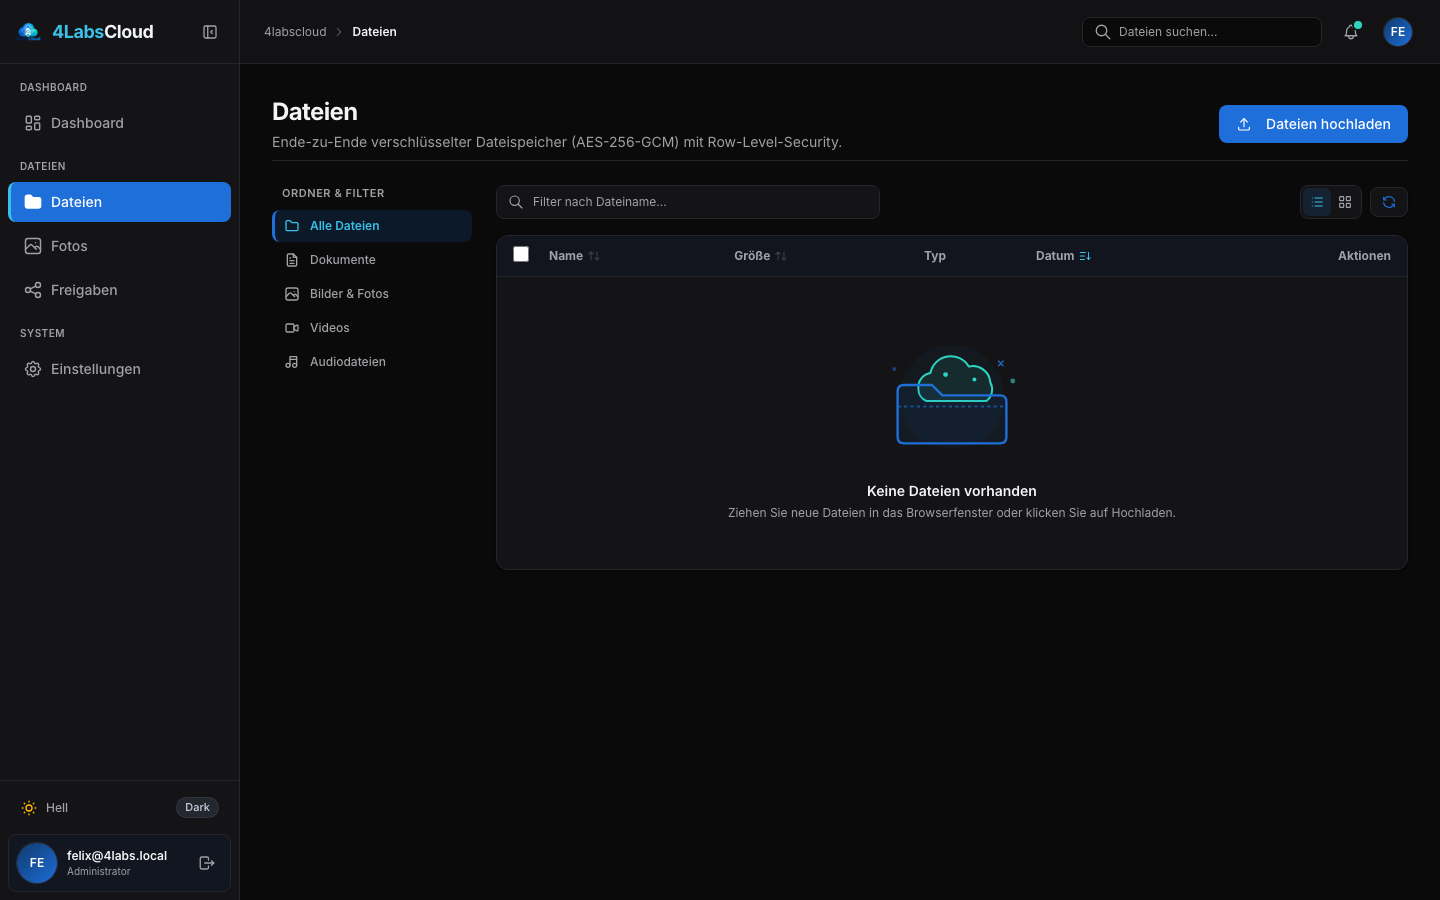
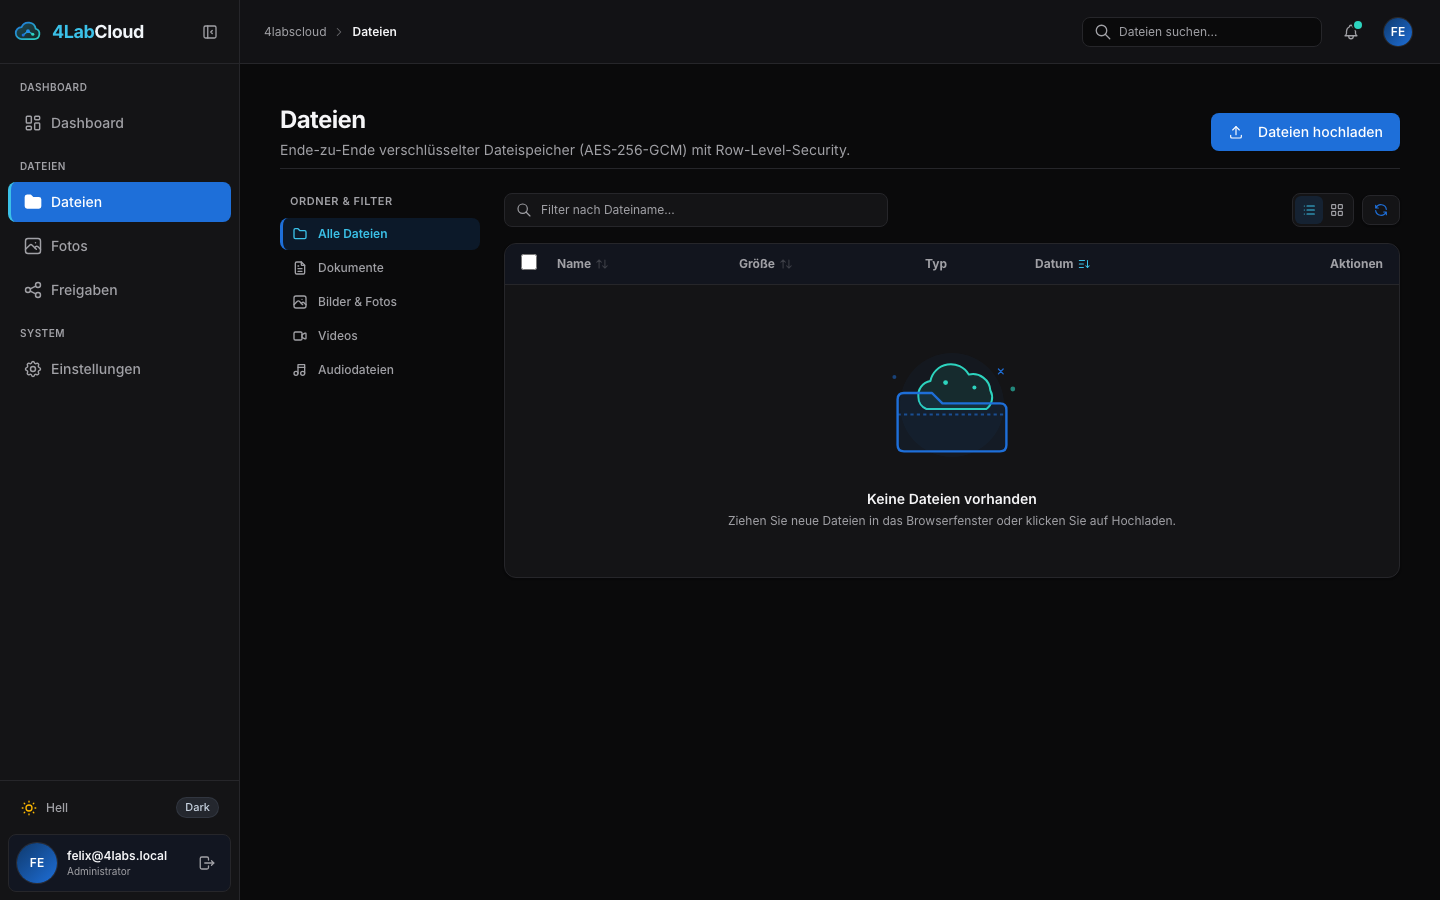
chore: v0.1.1 - naming, contrast, layout

diff --git a/frontend/src/routes/+page.svelte b/frontend/src/routes/+page.svelte
@@ -251,7 +251,7 @@
 		<!-- Hintergrundfoto mit dunklem Overlay fuer Barrierefreiheit -->
 		<img
 			src="/assets/hero-default.jpg"
-			alt="4labscloud Bergpanorama"
+			alt="4LabCloud Bergpanorama"
 			class="absolute inset-0 w-full h-full object-cover select-none pointer-events-none"
 		/>
 		<div class="absolute inset-0 bg-black/40"></div>
@@ -295,10 +295,10 @@
 		</div>
 	</div>
 
-	<!-- 2. Hauptbereich: 2-Spalten-Grid (2/3 zu 1/3) -->
-	<div class="grid grid-cols-1 lg:grid-cols-3 gap-6 items-start">
-		<!-- Linke Spalte (2/3): "Zuletzt verwendet" mit Tabs & 4er-Kachel-Grid -->
-		<div class="lg:col-span-2 space-y-4">
+	<!-- 2. Hauptbereich: Breiteres 2-Spalten-Layout (Flexibel + 320px Sidebar) -->
+	<div class="flex flex-col lg:flex-row gap-6 items-start">
+		<!-- Linke Spalte: "Zuletzt verwendet" mit Tabs & dynamischem Kachel-Grid -->
+		<div class="flex-1 min-w-0 space-y-4">
 			<div class="flex flex-col sm:flex-row sm:items-center justify-between gap-3 pb-1 border-b border-border-light dark:border-border-dark">
 				<!-- Section-Header mit 2x16px Akzentbalken (Primary) -->
 				<div class="flex items-center gap-2.5">
@@ -341,10 +341,10 @@
 				</div>
 			</div>
 
-			<!-- 4 Kacheln pro Reihe auf Desktop (1440px) -->
+			<!-- Dynamisches Kachel-Grid (4 Spalten, 5 bei xl) -->
 			{#if isLoading}
-				<div class="grid grid-cols-1 sm:grid-cols-2 xl:grid-cols-4 gap-4">
-					{#each Array(8) as _}
+				<div class="grid grid-cols-2 sm:grid-cols-3 lg:grid-cols-4 xl:grid-cols-5 gap-4">
+					{#each Array(10) as _}
 						<div class="aspect-4/5 rounded-xl bg-slate-200/70 dark:bg-slate-800/60 animate-skeleton"></div>
 					{/each}
 				</div>
@@ -364,8 +364,8 @@
 					</Button>
 				</div>
 			{:else}
-				<div class="grid grid-cols-1 sm:grid-cols-2 xl:grid-cols-4 gap-4">
-					{#each filteredFiles.slice(0, 8) as file (file.id)}
+				<div class="grid grid-cols-2 sm:grid-cols-3 lg:grid-cols-4 xl:grid-cols-5 gap-4">
+					{#each filteredFiles.slice(0, 10) as file (file.id)}
 						<FileCard
 							{file}
 							ondownload={handleDownload}
@@ -387,8 +387,8 @@
 			{/if}
 		</div>
 
-		<!-- Rechte Spalte (1/3): Sidebar-Karten mit Tiefe & Akzenten -->
-		<div class="space-y-6">
+		<!-- Rechte Spalte: Sidebar-Karten (w-80 / 320px) mit Tiefe & Akzenten -->
+		<div class="w-full lg:w-80 shrink-0 space-y-6">
 			<!-- Karte 1: Ihre Freigaben (mit Akzentbalken Amber & Kategorie-Icons) -->
 			<Card class="p-5">
 				<div class="flex items-center justify-between pb-3 border-b border-border-light dark:border-border-dark">

diff --git a/frontend/src/routes/+layout.svelte b/frontend/src/routes/+layout.svelte
@@ -196,7 +196,7 @@
 </script>
 
 <svelte:head>
-	<title>{currentTitle} - 4labscloud</title>
+	<title>{currentTitle} - 4LabCloud</title>
 </svelte:head>
 
 <!-- Globale Toasts -->
@@ -210,12 +210,12 @@
 	<div class="min-h-[100dvh] flex bg-bg-light dark:bg-bg-dark text-text-light dark:text-text-dark font-sans antialiased">
 		<!-- Sidebar (Seafile/Nextcloud-Struktur, 240px <-> 64px) -->
 		<aside
-			class="shrink-0 flex flex-col justify-between border-r border-border-light dark:border-border-dark bg-surface-light dark:bg-surface-dark transition-[width] duration-200 ease-in-out z-40 sticky top-0 h-screen select-none {isCollapsed ? 'w-16' : 'w-60'}"
+			class="shrink-0 flex flex-col justify-between border-r border-border-light dark:border-border-dark bg-sidebar-light dark:bg-surface-dark transition-[width] duration-200 ease-in-out z-40 sticky top-0 h-screen select-none {isCollapsed ? 'w-16' : 'w-60'}"
 		>
 			<!-- Oberer Bereich: Logo (64px) & Collapse-Toggle oben rechts immer sichtbar -->
 			<div>
 				<div class="h-16 flex items-center border-b border-border-light dark:border-border-dark {isCollapsed ? 'justify-between px-2.5' : 'justify-between px-3.5'}">
-					<a href="/" class="flex items-center overflow-hidden focus:outline-hidden" title="4labscloud">
+					<a href="/" class="flex items-center overflow-hidden focus:outline-hidden" title="4LabCloud">
 						{#if isCollapsed}
 							<Logo size={24} showWordmark={false} />
 						{:else}
@@ -469,9 +469,9 @@
 			</header>
 
 
-			<!-- Seiteninhalt (max 1200px zentriert) -->
+			<!-- Seiteninhalt (max 1600px mit Padding statt Zentrierung bei breiten Screens) -->
 			<main class="flex-1 overflow-y-auto">
-				<div class="max-w-[1200px] mx-auto p-4 sm:p-6 lg:p-8 w-full">
+				<div class="max-w-[1600px] p-4 sm:p-6 lg:p-8 xl:p-10 w-full">
 					{@render children()}
 				</div>
 			</main>

diff --git a/frontend/src/routes/layout.css b/frontend/src/routes/layout.css
@@ -15,11 +15,12 @@
 	--color-primary-light: #3BC1E8;
 	--color-accent: #2DD4BF;
 	--color-accent-light: #3BC1E8;
-	--color-bg-light: #FAFAFA;
+	--color-bg-light: #F4F4F5;
 	--color-bg-dark: #0A0A0B;
 	--color-surface-light: #FFFFFF;
 	--color-surface-dark: #141416;
-	--color-border-light: #E5E5E7;
+	--color-sidebar-light: #EFEFF1;
+	--color-border-light: #E4E4E7;
 	--color-border-dark: #26262A;
 	--color-text-light: #18181B;
 	--color-text-dark: #F5F5F7;
@@ -81,6 +82,14 @@ html:not(.dark) body {
 
 .card-depth {
 	background-image: linear-gradient(180deg, rgba(255, 255, 255, 0.02) 0%, rgba(255, 255, 255, 0) 100%);
+}
+
+/* Light Mode Karten-Styling gemaess Design-Vorgaben */
+html:not(.dark) .card-depth,
+html:not(.dark) [class*="card-depth"],
+html:not(.dark) .card {
+	border: 1px solid var(--color-border-light);
+	box-shadow: 0 1px 2px rgba(0, 0, 0, 0.03);
 }
 
 /* Skeleton-Pulsieren */

diff --git a/frontend/src/lib/components/Logo.svelte b/frontend/src/lib/components/Logo.svelte
@@ -10,14 +10,14 @@
 
 <div class="flex items-center gap-2.5 select-none {customClass}">
 	<img
-		src="/assets/logo.png"
-		alt="4LabsCloud Logo"
+		src="/assets/logo-icon.svg"
+		alt="4LabCloud Logo"
 		style="width: {size}px; height: {size}px;"
-		class="object-contain shrink-0 rounded-md"
+		class="object-contain shrink-0"
 	/>
 	{#if showWordmark}
-		<span class="font-bold tracking-tight text-lg leading-none whitespace-nowrap">
-			<span class="text-[#0F3A6E] dark:text-[#3BC1E8]">4Labs</span><span class="text-[#1E6FD9] dark:text-[#F1F5F9]">Cloud</span>
+		<span class="font-bold tracking-tight text-lg leading-none whitespace-nowrap text-text-light dark:text-text-dark">
+			<span class="text-[#0F3A6E] dark:text-[#3BC1E8]">4Lab</span><span class="text-[#1E6FD9] dark:text-[#F1F5F9]">Cloud</span>
 		</span>
 	{/if}
 </div>

diff --git a/frontend/src/routes/share/[token]/+page.svelte b/frontend/src/routes/share/[token]/+page.svelte
@@ -75,7 +75,7 @@
 </script>
 
 <svelte:head>
-	<title>{share ? `${share.filename} - Freigabe` : 'Datei-Freigabe'} - 4labscloud</title>
+	<title>{share ? `${share.filename} - Freigabe` : 'Datei-Freigabe'} - 4LabCloud</title>
 </svelte:head>
 
 <div class="w-full max-w-md rounded-2xl border border-border-light dark:border-border-dark bg-surface-light dark:bg-surface-dark p-8 shadow-xl text-center">

diff --git a/frontend/src/routes/register/+page.svelte b/frontend/src/routes/register/+page.svelte
@@ -63,7 +63,7 @@
 	<div class="mb-6 flex flex-col items-center">
 		<Logo size={80} showWordmark={true} class="flex-col gap-3" />
 		<p class="text-xs text-muted-light dark:text-muted-dark mt-2 font-medium tracking-wide text-center">
-			Neues Konto für 4labscloud erstellen
+			Neues Konto für 4LabCloud erstellen
 		</p>
 	</div>
 

diff --git a/frontend/src/app.html b/frontend/src/app.html
@@ -3,6 +3,7 @@
 	<head>
 		<meta charset="utf-8" />
 		<meta name="viewport" content="width=device-width, initial-scale=1" />
+		<title>4LabCloud</title>
 		<meta name="text-scale" content="scale" />
 		<style>
 			html.dark { background-color: #0B1220; color: #F1F5F9; }

diff --git a/frontend/src/routes/photos/albums/+page.svelte b/frontend/src/routes/photos/albums/+page.svelte
@@ -77,7 +77,7 @@
 </script>
 
 <svelte:head>
-	<title>Alben - 4labscloud</title>
+	<title>Alben - 4LabCloud</title>
 </svelte:head>
 
 <div class="space-y-6">

diff --git a/docs/COMPLIANCE.md b/docs/COMPLIANCE.md
@@ -1,12 +1,12 @@
 # Compliance-Dokumentation: DSGVO & BSI TR-02102-2
 
-4labscloud ist von Grund auf als datenschutzfreundliche („Privacy by Design“ & „Privacy by Default“) Plattform konzipiert. Dieses Dokument beschreibt die konkreten technischen und organisatorischen Maßnahmen (TOM) zur Einhaltung der Datenschutz-Grundverordnung (DSGVO) sowie der Vorgaben des Bundesamts für Sicherheit in der Informationstechnik (BSI).
+4LabCloud ist von Grund auf als datenschutzfreundliche („Privacy by Design“ & „Privacy by Default“) Plattform konzipiert. Dieses Dokument beschreibt die konkreten technischen und organisatorischen Maßnahmen (TOM) zur Einhaltung der Datenschutz-Grundverordnung (DSGVO) sowie der Vorgaben des Bundesamts für Sicherheit in der Informationstechnik (BSI).
 
 ---
 
 ## 1. DSGVO-Artikel-Mapping
 
-| DSGVO-Artikel | Gesetzliche Anforderung | Umsetzung in 4labscloud |
+| DSGVO-Artikel | Gesetzliche Anforderung | Umsetzung in 4LabCloud |
 |---|---|---|
 | **Art. 5 Abs. 1 lit. c**<br>*(Datenminimierung)* | Erhebung auf das notwendige Maß beschränken. | - Nginx loggt keine IP-Adressen (`log_format minimal '$request_method $request_uri $status'`).<br>- Keine externen Analytics, Cookies oder Tracking-Tools.<br>- Keine Inhaltsanalyse oder Metadaten-Scraping von Benutzerdateien. |
 | **Art. 5 Abs. 1 lit. e**<br>*(Speicherbegrenzung)* | Daten nur so lange speichern wie nötig. | - Automatische Bereinigung von Audit-Logs nach 90 Tagen (`AUDIT_RETENTION_DAYS`).<br>- Automatisches Verfallsdatum für öffentliche Freigaben (Share-Links).<br>- Temporäre Chunk-Dateien werden nach 24h unvollständigem Upload bereinigt. |
@@ -18,7 +18,7 @@
 
 ## 2. BSI TR-02102-2 Konformität (Kryptografische Verfahren)
 
-Die BSI Technische Richtlinie TR-02102-2 definiert Vorgaben für die Verwendung von Transport Layer Security (TLS). 4labscloud erfüllt diese Anforderungen vollständig:
+Die BSI Technische Richtlinie TR-02102-2 definiert Vorgaben für die Verwendung von Transport Layer Security (TLS). 4LabCloud erfüllt diese Anforderungen vollständig:
 
 1. **Ausschließliche Nutzung von TLS 1.3**: Ältere Protokolle (TLS 1.0, 1.1, 1.2) sind in Nginx deaktiviert.
 2. **Cipher Suites**: Verwendung von modernen AEAD-Ciphers (`TLS_AES_256_GCM_SHA384`, `TLS_CHACHA20_POLY1305_SHA256`).

diff --git a/README.md b/README.md
@@ -1,6 +1,6 @@
-# 4labscloud
+# 4LabCloud
 
-4labscloud ist eine schlanke, souveräne Open-Source-Cloud-Plattform für verschlüsselten Dateiupload, Freigaben und Medienverwaltung. Die Plattform wurde ohne SaaS-Abhängigkeiten oder externe Tracking-Dienste speziell für maximale Performance, intuitive Bedienung und strikte europäische Datenschutzstandards konzipiert.
+4LabCloud ist eine schlanke, souveräne Open-Source-Cloud-Plattform für verschlüsselten Dateiupload, Freigaben und Medienverwaltung. Die Plattform wurde ohne SaaS-Abhängigkeiten oder externe Tracking-Dienste speziell für maximale Performance, intuitive Bedienung und strikte europäische Datenschutzstandards konzipiert.
 
 ---
 
@@ -78,7 +78,7 @@ podman logs -f 4labs-prod-nginx
 
 ## Backup & Restore Workflow
 
-4labscloud enthält vollautomatisierte Skripte zur Datensicherung und Wiederherstellung:
+4LabCloud enthält vollautomatisierte Skripte zur Datensicherung und Wiederherstellung:
 
 ### Automatisiertes Backup
 ```bash
@@ -155,4 +155,4 @@ podman logs -f 4labs-prod-nginx
 ## Lizenz
 
 Dieses Projekt ist lizenziert unter der [Apache-2.0-Lizenz](LICENSE).
-Copyright 2026 4LabsCloud Contributors.
+Copyright 2026 4LabCloud Contributors.

diff --git a/CHANGELOG.md b/CHANGELOG.md
@@ -5,6 +5,14 @@ Alle nennenswerten Änderungen an diesem Projekt werden in dieser Datei dokument
 Das Format basiert auf [Keep a Changelog](https://keepachangelog.com/de/1.1.0/),
 und dieses Projekt hält sich an [Semantic Versioning](https://semver.org/spec/v2.0.0.html).
 
+## [0.1.1] - 2026-09-18
+
+### Geändert
+- **Markenname**: Projektname im UI und der Dokumentation einheitlich auf **4LabCloud** korrigiert.
+- **Logo & Favicon**: Vektorisiertes Netzwerk-Cloud SVG-Icon (`logo.svg`, `logo-icon.svg`, `favicon.svg`) mit Farbverlauf (#1E6FD9 -> #2DD4BF) und gestochen scharfer HTML-Wortmarke integriert; veraltete PNG-Dateien bereinigt.
+- **Light Mode Kontrast**: Hintergrundfarbe auf `#F4F4F5` und Sidebar auf `#EFEFF1` geschärft; alle Karten mit 1px Rahmen und dezentem Schatten akzentuiert.
+- **Layout-Optimierung**: Dashboard-Breite auf bis zu 1600px erweitert, 5 Spalten bei `xl:` und vergrößerte rechte Seitenleiste (320px).
+
 ## [0.1.0] - 2026-09-18
 
 ### Hinzugefügt

diff --git a/docs/BACKUP.md b/docs/BACKUP.md
@@ -1,4 +1,4 @@
-# Backup- und Wiederherstellungs-Strategie: 4labscloud
+# Backup- und Wiederherstellungs-Strategie: 4LabCloud
 
 Dieses Dokument beschreibt die Datensicherungsarchitektur, die Einrichtung automatisierter Backups und das Vorgehen bei Notfall-Wiederherstellungen (Disaster Recovery).
 
@@ -6,7 +6,7 @@ Dieses Dokument beschreibt die Datensicherungsarchitektur, die Einrichtung autom
 
 ## 1. Die 3-2-1 Backup-Strategie
 
-Für den produktiven Betrieb von 4labscloud wird die Einhaltung der anerkannten 3-2-1-Regel empfohlen:
+Für den produktiven Betrieb von 4LabCloud wird die Einhaltung der anerkannten 3-2-1-Regel empfohlen:
 
 1. **3 Kopien der Daten**:
    - Originaldaten auf dem Produktivsystem (PostgreSQL + Storage-Volume).
